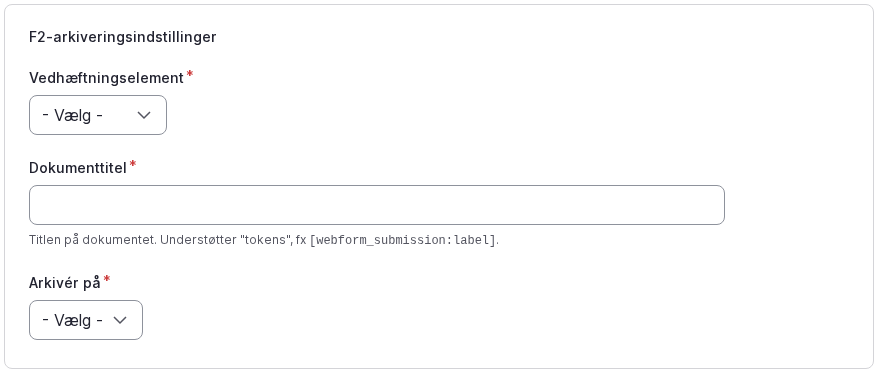
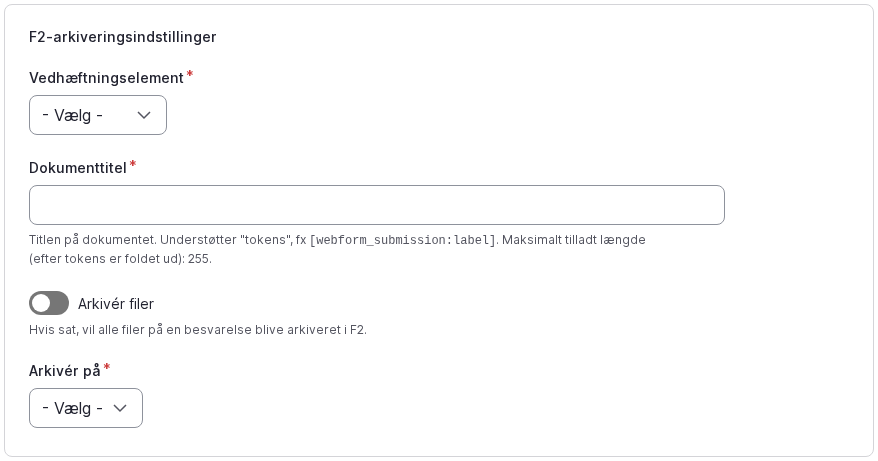
Updated user manual images

diff --git a/tests/Playwright/tests/user-manual-images.spec.ts b/tests/Playwright/tests/user-manual-images.spec.ts
@@ -219,6 +219,11 @@ screenshooting ${selector}
     .locator('[name="settings[os2forms_f2_f2][archive][document_title]"]')
     .fill("[webform_submission:label] ([site:url])");
   await page
+    .locator('[name="settings[os2forms_f2_f2][archive][archive_files]"]')
+    .check();
+  // Wait for checkbox animation to (hopefully) complete
+  await page.waitForTimeout(2000);
+  await page
     .locator('[name="settings[os2forms_f2_f2][archive][archive_target]"]')
     .focus();
 
